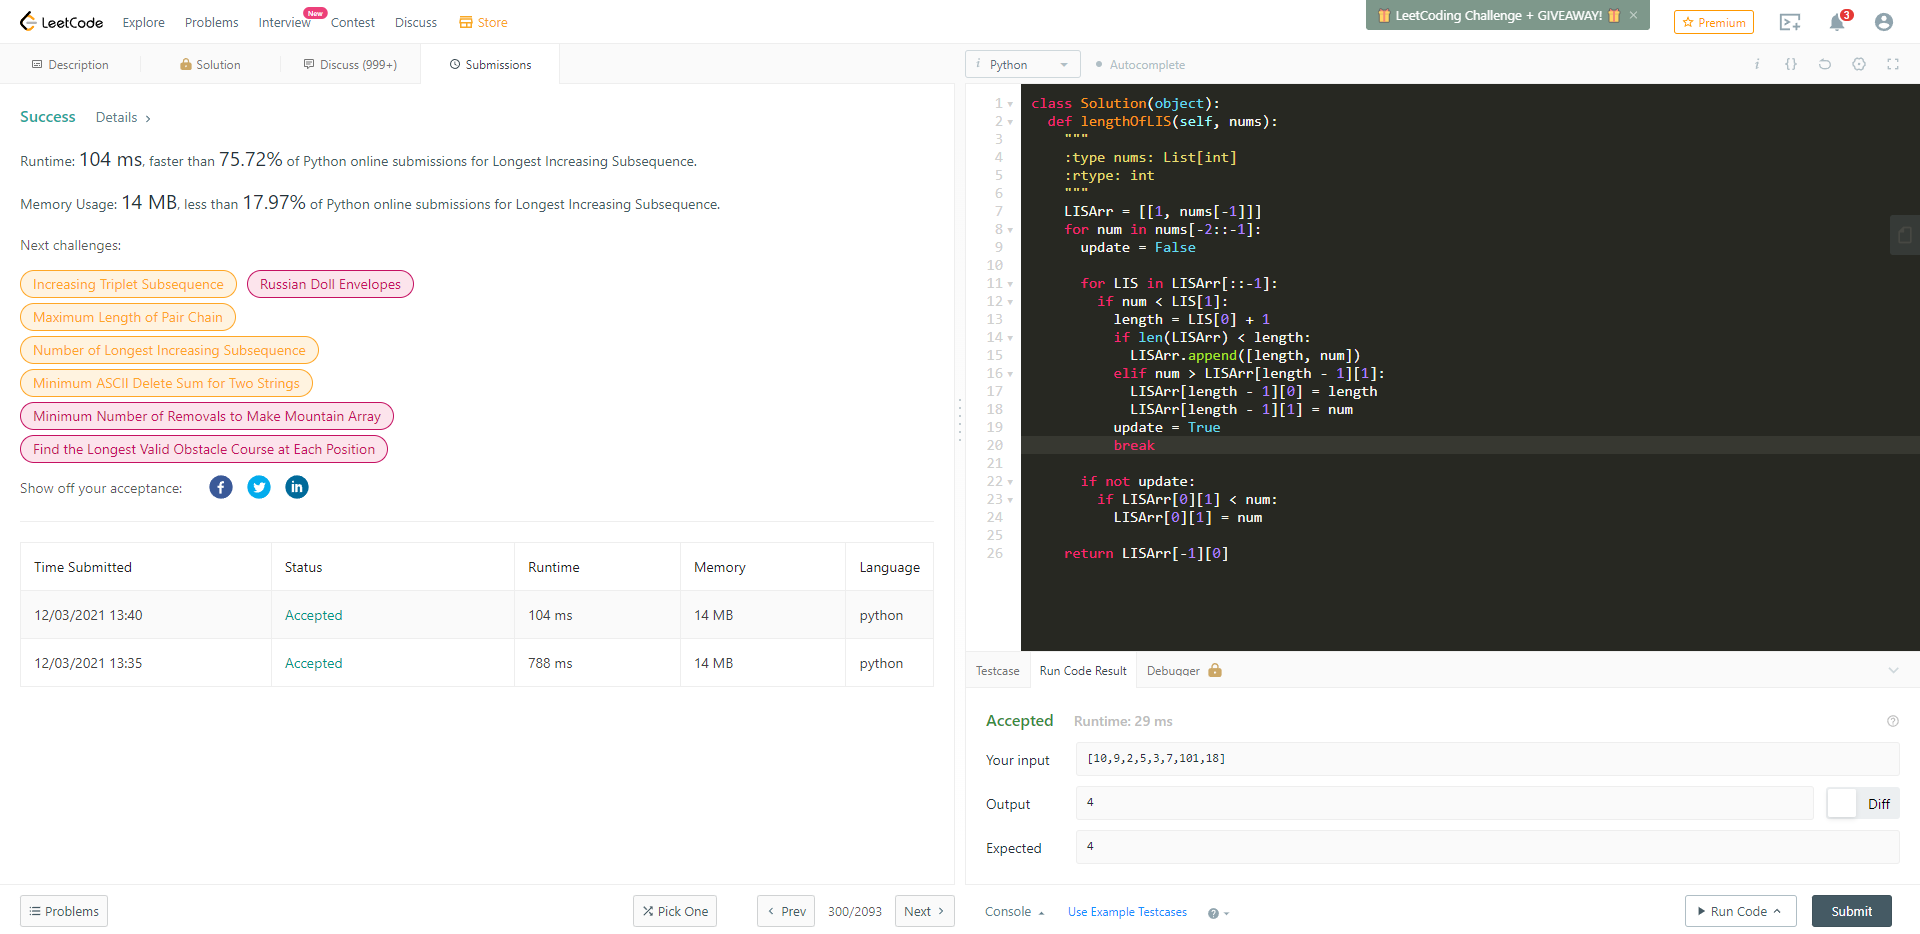
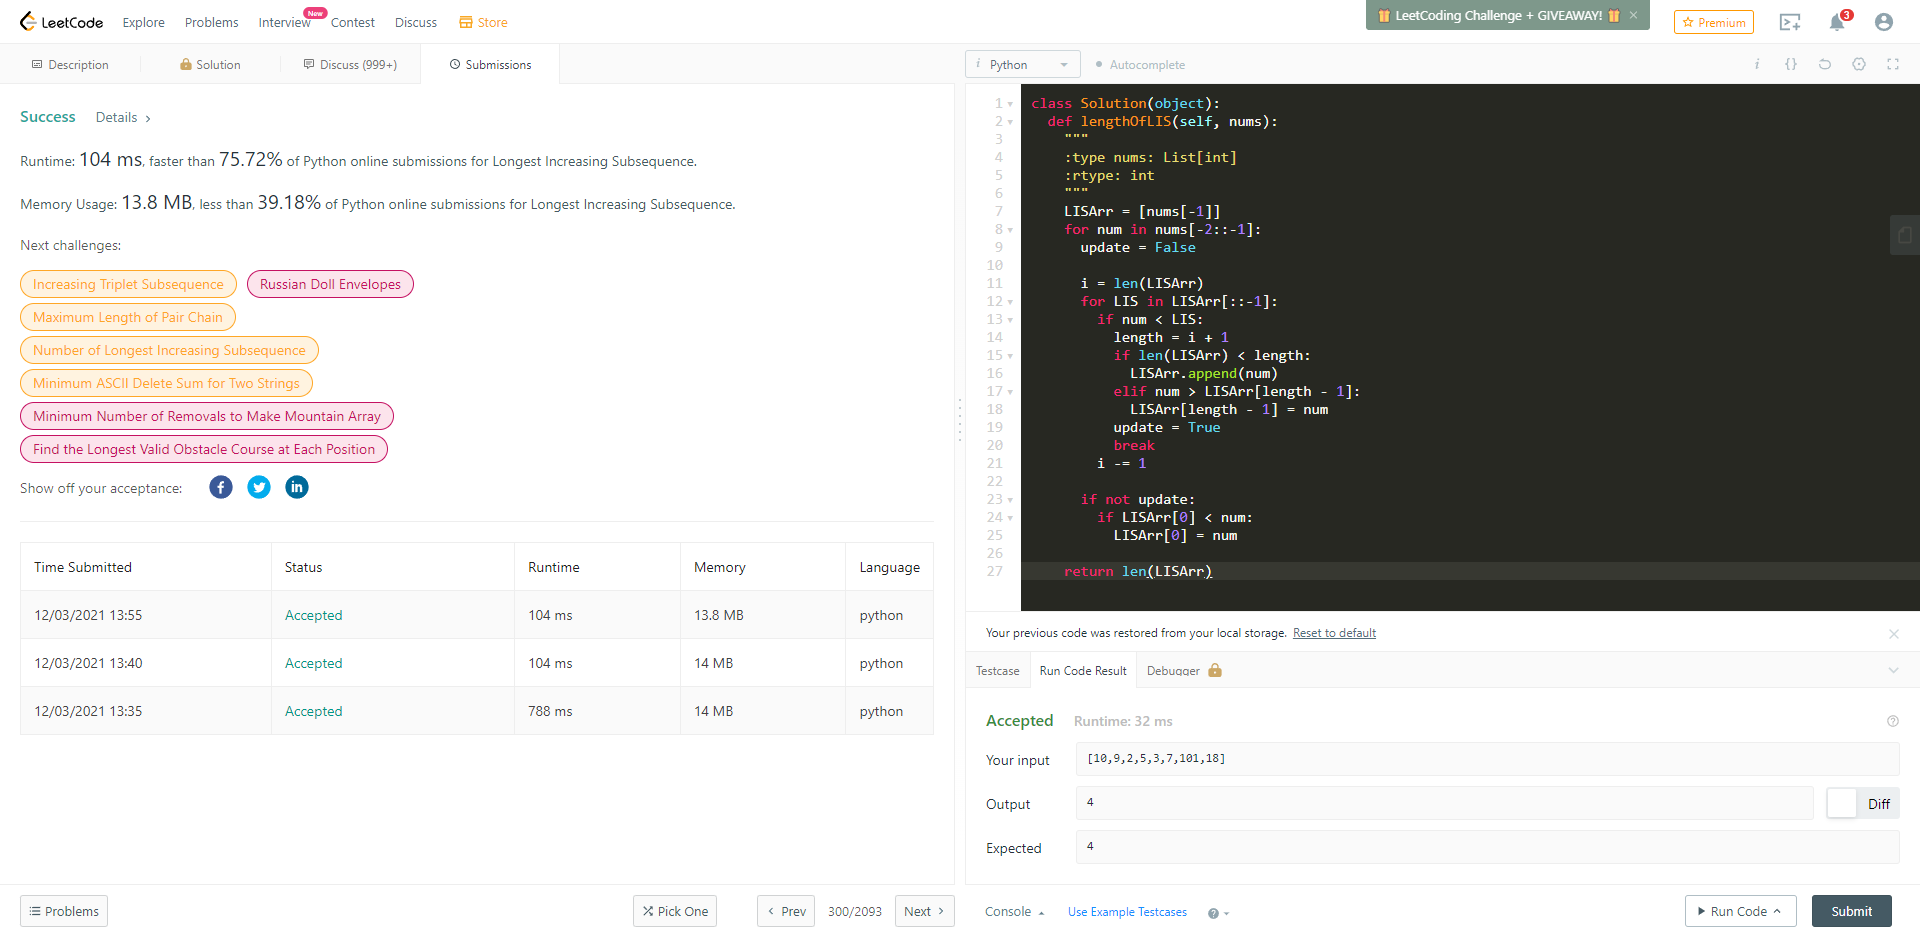
Aula09: Se reduce el uso de memoria de lengthOfLIS
- Se reduce el uso de memoria usando un arreglo lineal y un contador

diff --git a/12_aula09_programacionDinamica/lengthOfLIS.py b/12_aula09_programacionDinamica/lengthOfLIS.py
@@ -1,29 +1,35 @@
 # Number of longest increasing subsequence
 
 def lengthOfLIS(nums):
-  LISArr = [[1, nums[-1]]]
+  """
+  Este programa resuelve el siguiente ejercicio: Longest Increasing Subsequence
+  Link: https://leetcode.com/problems/longest-increasing-subsequence/
+
+  Este programa retorna el tamaño de la subsecuencia ascendente de mayor tamaño
+  Una subsecuencia de un arreglo A es un arreglo formado por algunos elementos
+  de A sin alterar el orden.
+  """
+  LISArr = [nums[-1]]
   for num in nums[-2::-1]:
     update = False
 
+    i = len(LISArr)
     for LIS in LISArr[::-1]:
-      if num < LIS[1]:
-        length = LIS[0] + 1
+      if num < LIS:
+        length = i + 1
         if len(LISArr) < length:
-          LISArr.append([length, num])
-        elif num > LISArr[length - 1][1]:
-          LISArr[length - 1][0] = length
-          LISArr[length - 1][1] = num
+          LISArr.append(num)
+        elif num > LISArr[length - 1]:
+          LISArr[length - 1] = num
         update = True
         break
+      i -= 1
 
     if not update:
-      if LISArr[0][1] < num:
-        LISArr[0][1] = num
+      if LISArr[0] < num:
+        LISArr[0] = num
 
-  return LISArr[-1][0]
-      
-    
-
+  return len(LISArr)
 
 # Test
 nums = [10, 9, 2, 5, 3, 7, 101, 18]
